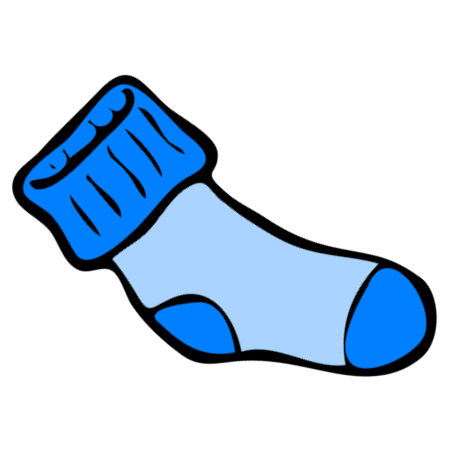
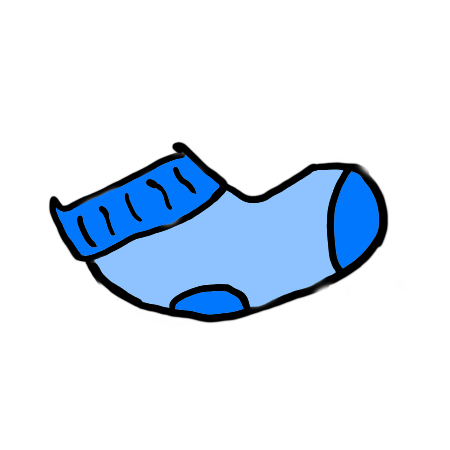
Fixed sock

diff --git a/style.css b/style.css
@@ -100,10 +100,10 @@
 }
 
 .beanBody #sock {
-  margin-left: 100px;
-  width: 150px;
-  height: 130px;
-  margin-top: 85px;
+  margin-left: 50px;
+  width: 190px;
+  height: 170px;
+  margin-top: 30px;
   position: absolute;
   z-index: 2;
 }
